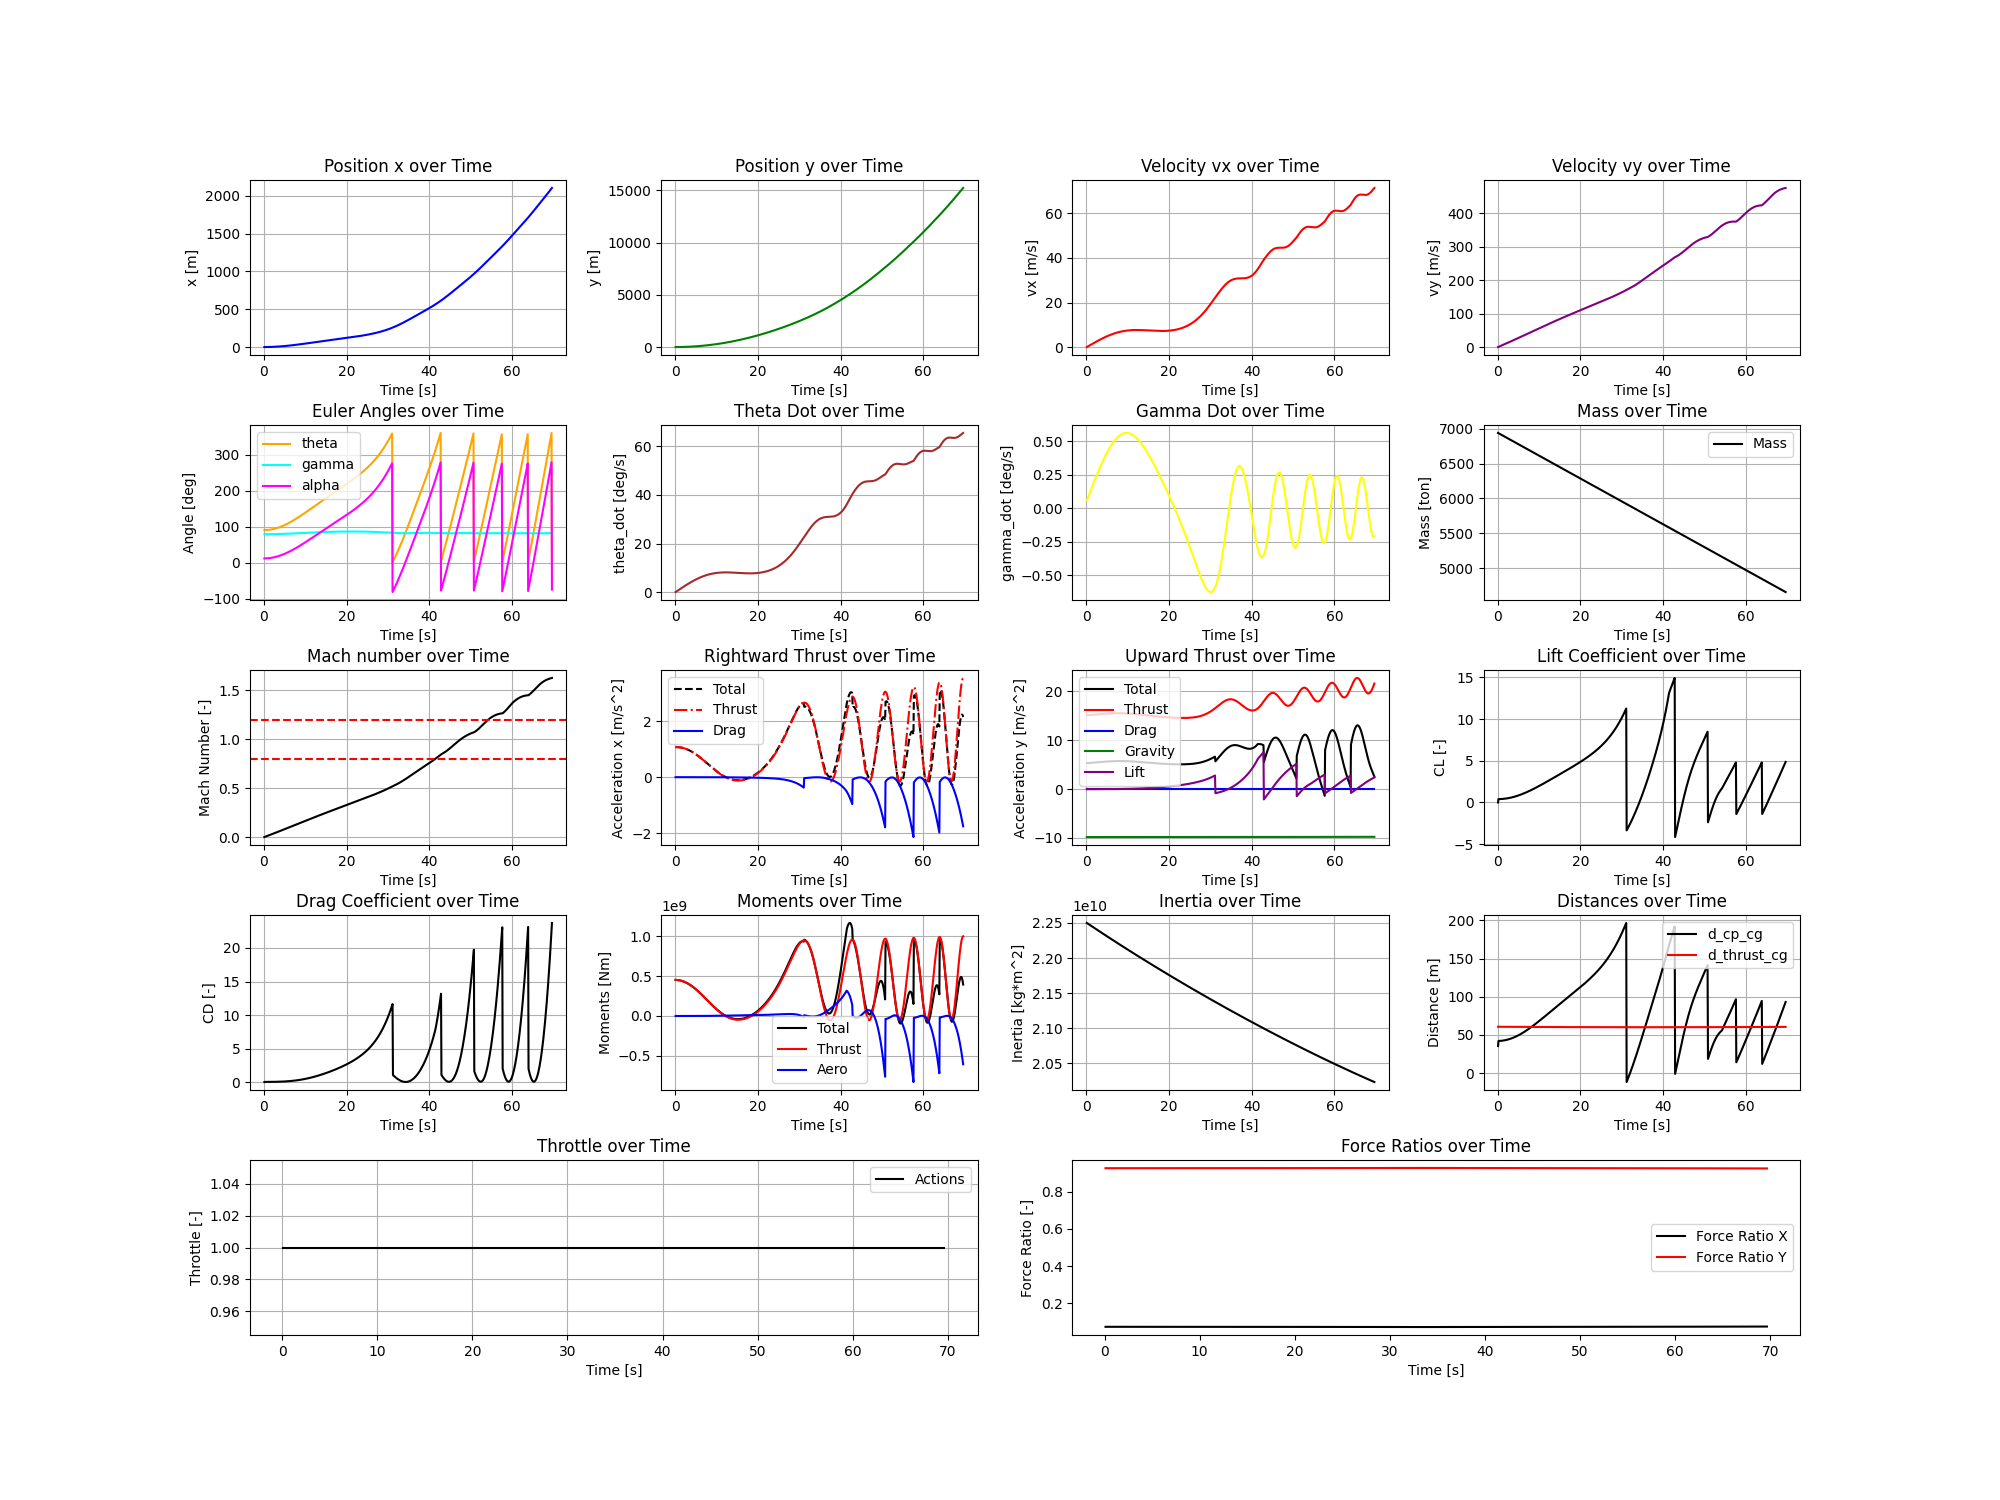
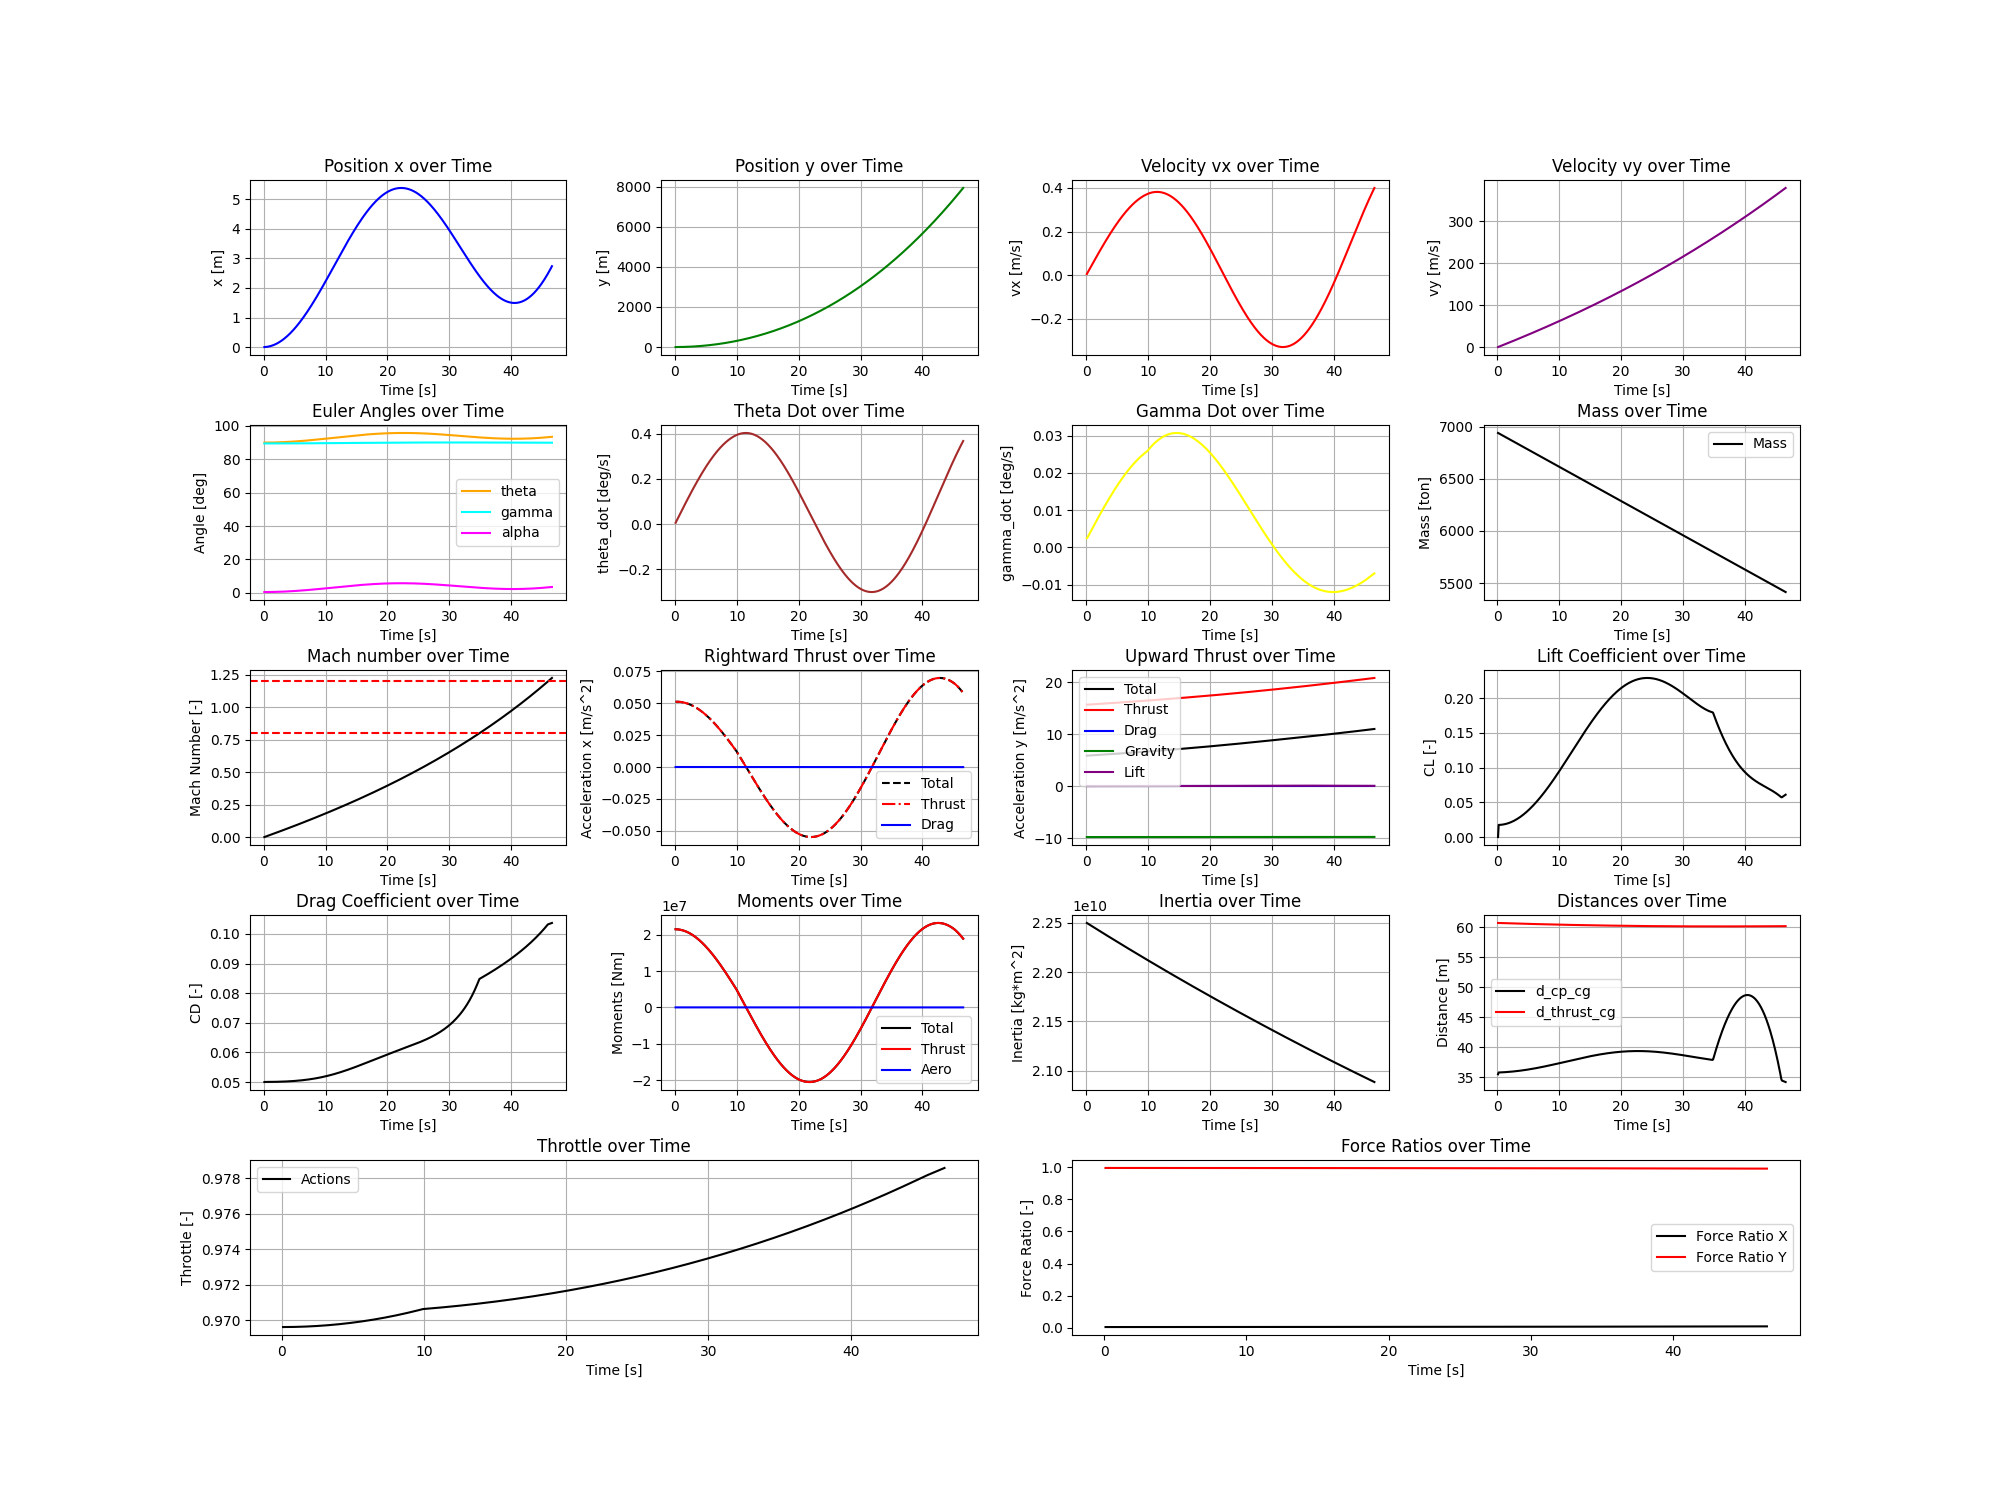
alpha constraint added

diff --git a/src/envs/env_endo/init_vertical_rising.py b/src/envs/env_endo/init_vertical_rising.py
@@ -40,9 +40,17 @@ def reward_func(state, done, truncated, reference_trajectory_func, final_referen
     reference_state = reference_trajectory_func(time)
     xr, yr, vxr, vyr, m = reference_state
 
-    # Calculate the reward
+    reward = 0
+
+    # Angle of attack stability reward, keep with in 5 degrees, and if greater scale abs reward
+    if abs(math.degrees(alpha)) < 5:
+        reward += 1
+    else:
+        reward -= (abs(math.degrees(alpha)) - 5)/10
+
+    # Position error
     pos_error = math.sqrt((x - xr)**2 + (y - yr)**2)
-    reward = pos_error/1000
+    reward += pos_error/1000
 
     # Special errors
     if y < 0:
@@ -82,6 +90,8 @@ def truncated_func(state, reference_trajectory_func, final_reference_time):
         return True
     # Now check if error_y is greater than 1000m
     elif error_y > 1000:
+        return True
+    elif abs(alpha) > math.radians(45):
         return True
     else:
         return False

diff --git a/configs/evolutionary_algorithms_config.py b/configs/evolutionary_algorithms_config.py
@@ -1,9 +1,9 @@
 genetic_algorithm_params = {
-    'population_size' : 50,
-    'generations' : 25,
+    'population_size' : 100,
+    'generations' : 75,
     'crossover_rate' : 0.75,
     'mutation_rate' : 0.05,
-    'fitness_threshold' : 1,
+    'fitness_threshold' : -1000, # i.e. not needed
     'migration_interval' : 10,
     'num_migrants' : 8,
     'num_islands' : 5
